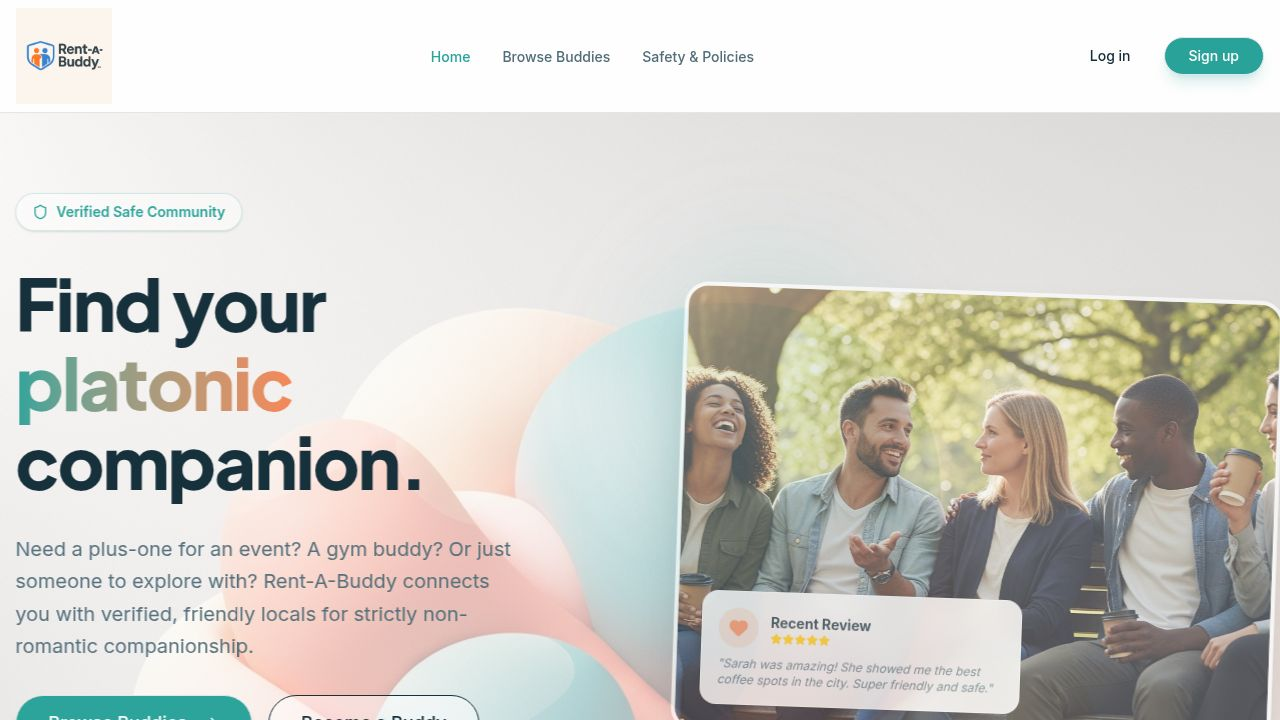
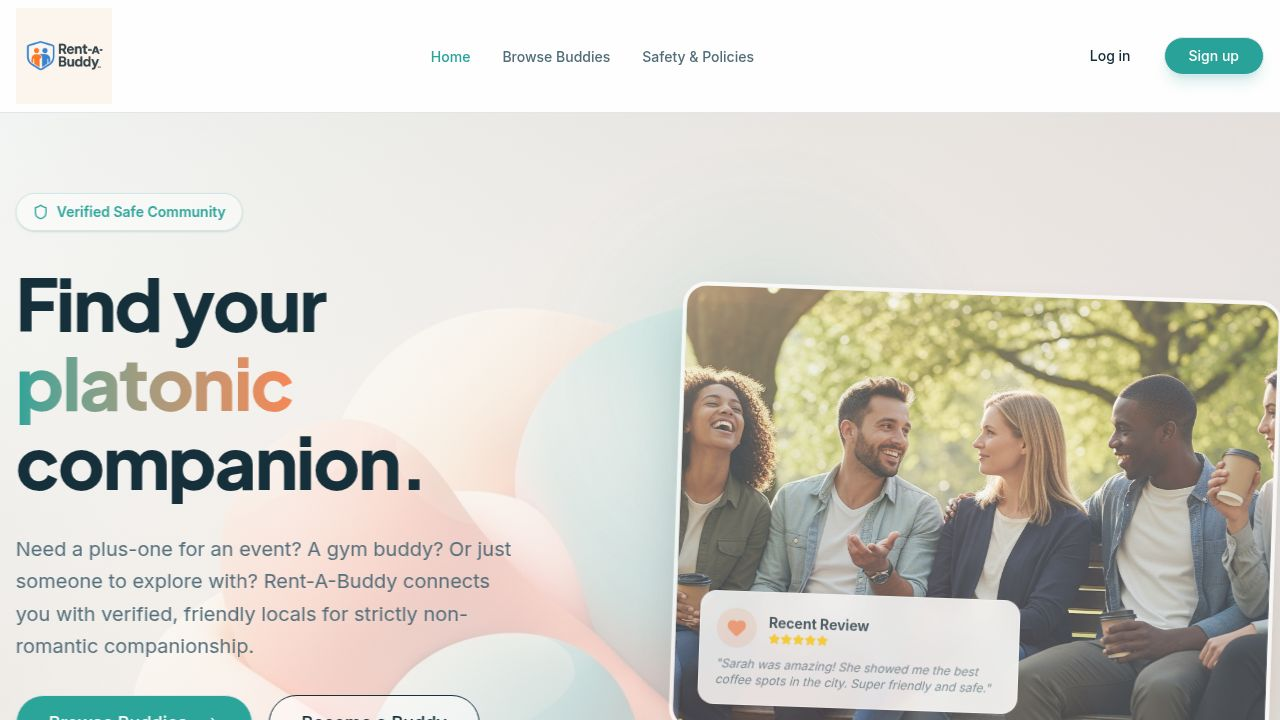
Update login, dashboard, and layout components with various fixes
Addresses issues with login redirect, dashboard navigation and calculations, and copyright year in layout.

Replit-Commit-Author: Agent
Replit-Commit-Session-Id: b24ce855-c86c-4500-ac1d-630ed2483be9
Replit-Commit-Checkpoint-Type: full_checkpoint
Replit-Commit-Event-Id: 0fe24eb7-da0a-4074-9fbd-37ada66df1a0
Replit-Commit-Screenshot-Url: https://storage.googleapis.com/screenshot-production-us-central1/f22b3245-a3da-4a61-8825-35eef5f04bb6/b24ce855-c86c-4500-ac1d-630ed2483be9/fR8wkUN

diff --git a/client/src/hooks/useAuth.tsx b/client/src/hooks/useAuth.tsx
@@ -14,7 +14,7 @@ interface AuthContextType {
   user: AuthUser | null;
   profile: ClientProfile | BuddyProfile | null;
   loading: boolean;
-  login: (email: string, password: string) => Promise<void>;
+  login: (email: string, password: string) => Promise<{ user: AuthUser }>;
   register: (data: any) => Promise<void>;
   logout: () => Promise<void>;
   refetch: () => Promise<void>;
@@ -44,7 +44,7 @@ export function AuthProvider({ children }: { children: ReactNode }) {
     refetch();
   }, []);
 
-  const login = async (email: string, password: string) => {
+  const login = async (email: string, password: string): Promise<{ user: AuthUser }> => {
     const data = await api.login({ email, password });
     setUser(data.user);
     setLoading(false);
@@ -55,6 +55,7 @@ export function AuthProvider({ children }: { children: ReactNode }) {
     } catch (e) {
       // Profile fetch may fail initially, that's ok
     }
+    return { user: data.user };
   };
 
   const register = async (data: any) => {

diff --git a/client/src/pages/Dashboard.tsx b/client/src/pages/Dashboard.tsx
@@ -178,7 +178,7 @@ export default function Dashboard() {
   }
 
   if (isBuddyProfileIncomplete) {
-    window.location.href = "/buddy-onboarding";
+    setLocation("/buddy-onboarding");
     return (
       <div className="container mx-auto px-4 py-12 text-center">
         <p className="text-muted-foreground">Redirecting to complete your profile...</p>
@@ -194,7 +194,7 @@ export default function Dashboard() {
   const canceledBookings = bookings.filter((b: any) => b.status === "CANCELED" || b.status === "REJECTED");
   const totalEarnings = completedBookings.reduce((sum: number, b: any) => sum + parseFloat(b.totalPrice || 0), 0);
   const completionRate = bookings.length > 0
-    ? Math.round((completedBookings.length / (completedBookings.length + canceledBookings.length || 1)) * 100)
+    ? Math.round((completedBookings.length / ((completedBookings.length + canceledBookings.length) || 1)) * 100)
     : 0;
 
   const buddyProfile = profile as any;

diff --git a/client/src/pages/Login.tsx b/client/src/pages/Login.tsx
@@ -1,5 +1,5 @@
 import { useState } from "react";
-import { useLocation } from "wouter";
+import { useLocation, Link } from "wouter";
 import { Button } from "@/components/ui/button";
 import { Input } from "@/components/ui/input";
 import { Label } from "@/components/ui/label";
@@ -93,9 +93,11 @@ export default function Login() {
 
             <div className="text-center text-sm text-gray-600">
               Don't have an account?{" "}
-              <a href="/register" className="text-teal-600 hover:underline" data-testid="link-register">
-                Sign up
-              </a>
+              <Link href="/register">
+                <span className="text-teal-600 hover:underline cursor-pointer" data-testid="link-register">
+                  Sign up
+                </span>
+              </Link>
             </div>
           </form>
         </CardContent>

diff --git a/client/src/components/Layout.tsx b/client/src/components/Layout.tsx
@@ -207,7 +207,7 @@ export default function Layout({ children }: { children: React.ReactNode }) {
           </div>
           
           <div className="pt-2 border-t border-border/50 flex flex-col md:flex-row justify-between items-center gap-2">
-            <p className="text-sm text-muted-foreground">© 2025 Rent-A-Buddy. All rights reserved.</p>
+            <p className="text-sm text-muted-foreground">© 2026 Rent-A-Buddy. All rights reserved.</p>
             <div className="px-4 py-2 bg-secondary/10 rounded-full border border-secondary/20">
               <p className="text-xs font-medium text-secondary-foreground flex items-center gap-2">
                 <span className="h-2 w-2 rounded-full bg-secondary block"></span>
